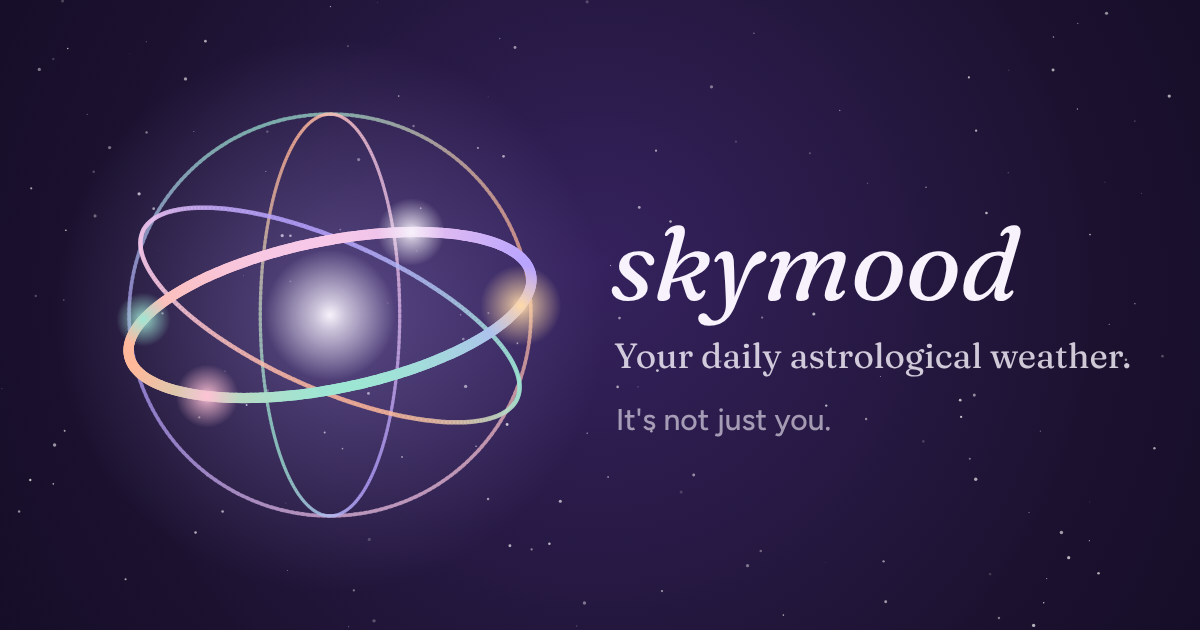
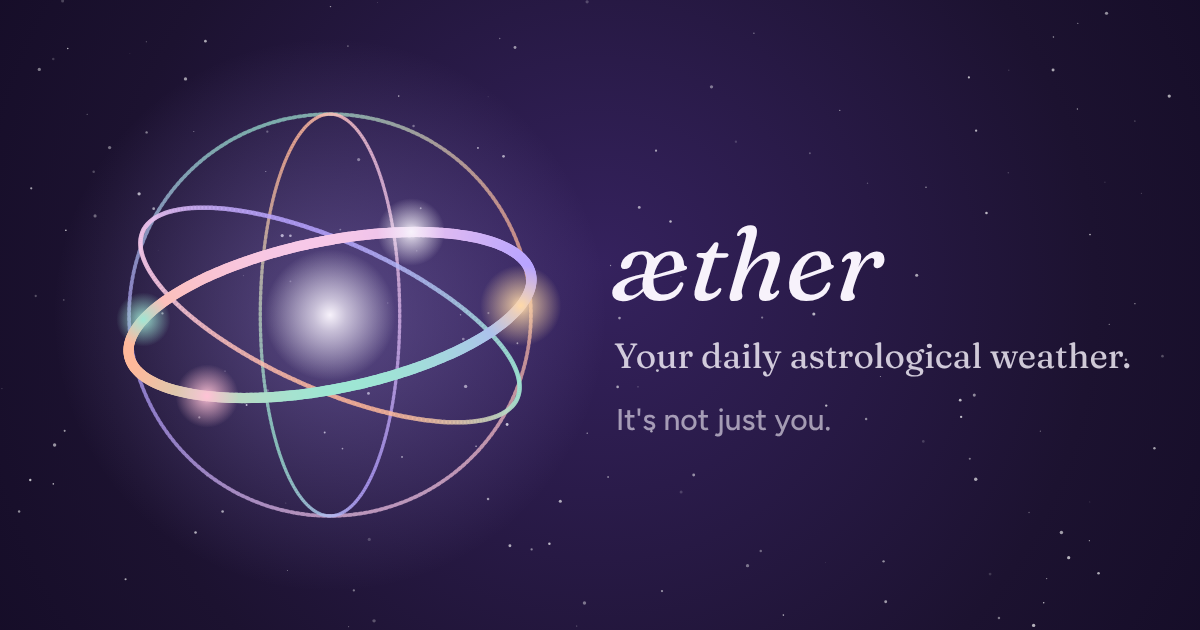
Rename the app to Æther
New name across the app, home-screen title, manifest, share text,
reading cards, link-preview image and README. Live address moves to
aether-astro.netlify.app.

Claude-Session: https://claude.ai/code/session_01QeCE94QXh4HWeaaSqUeRdM

Changed region(s): [[0.4933, 0.3619, 0.8633, 0.5127]]

diff --git a/site/js/app.js b/site/js/app.js
@@ -11,9 +11,9 @@ const TIP_URL = ""; // Ko-fi page goes here once it exists.
 
 // ---------- Storage (on this device only) ----------
 const store = {
-  get(k, d) { try { const v = localStorage.getItem("skymood:" + k); return v ? JSON.parse(v) : d; } catch { return d; } },
-  set(k, v) { try { localStorage.setItem("skymood:" + k, JSON.stringify(v)); } catch { /* storage unavailable */ } },
-  del(k) { try { localStorage.removeItem("skymood:" + k); } catch { } },
+  get(k, d) { try { const v = localStorage.getItem("aether:" + k); return v ? JSON.parse(v) : d; } catch { return d; } },
+  set(k, v) { try { localStorage.setItem("aether:" + k, JSON.stringify(v)); } catch { /* storage unavailable */ } },
+  del(k) { try { localStorage.removeItem("aether:" + k); } catch { } },
 };
 let profile = store.get("profile", null);
 let entries = store.get("entries", []);
@@ -241,7 +241,7 @@ function showReading(r, entry) {
     : r.bucket === "golden"
       ? `<button class="primary" id="bottleBtn">Bottle this</button>`
       : `<button class="primary" id="doneBtn">Done</button>`;
-  const tip = r.bucket === "golden" ? `<p class="tip-line">Skymood is free, with no ads and no paywall. <a href="#" class="tip-link">Chip in to keep it that way.</a></p>` : "";
+  const tip = r.bucket === "golden" ? `<p class="tip-line">Æther is free, with no ads and no paywall. <a href="#" class="tip-link">Chip in to keep it that way.</a></p>` : "";
   openSheet(`
     <article class="reading">
       <h2 id="sheetTitle">${esc(r.headline)}</h2>
@@ -343,26 +343,26 @@ async function renderCard(r) {
   g.fillStyle = "rgba(247,242,251,.75)"; g.font = '400 30px "Figtree", sans-serif';
   const moonBits = `Moon in ${r.sig.moonSign}, in ${r.sig.moonNak.name}, ${r.sig.moonNak.gloss}.`;
   wrap(g, moonBits, W - 180).slice(0, 2).forEach((l, i) => g.fillText(l, 90, 890 + lines.length * 80 + 20 + i * 42));
-  g.fillStyle = "#F7F2FB"; g.font = 'italic 400 44px "Fraunces", Georgia, serif'; g.fillText("skymood", 90, H - 90);
+  g.fillStyle = "#F7F2FB"; g.font = 'italic 400 44px "Fraunces", Georgia, serif'; g.fillText("æther", 90, H - 90);
   g.fillStyle = "rgba(247,242,251,.6)"; g.font = '400 26px "Figtree", sans-serif';
   g.textAlign = "right"; g.fillText(location.host, W - 90, H - 94);
   return new Promise(res => c.toBlob(res, "image/png"));
 }
 async function shareCard(r) {
   const blob = await renderCard(r);
-  const file = new File([blob], "skymood-sky.png", { type: "image/png" });
-  const text = `My sky today on Skymood. ${location.origin}`;
+  const file = new File([blob], "aether-sky.png", { type: "image/png" });
+  const text = `My sky today on Æther. ${location.origin}`;
   if (navigator.canShare && navigator.canShare({ files: [file] })) {
     try { await navigator.share({ files: [file], text }); } catch { /* cancelled */ }
     return;
   }
   const url = URL.createObjectURL(blob);
-  const a = document.createElement("a"); a.href = url; a.download = "skymood-sky.png"; a.click();
+  const a = document.createElement("a"); a.href = url; a.download = "aether-sky.png"; a.click();
   setTimeout(() => URL.revokeObjectURL(url), 4000);
   toast("Saved your sky card as an image.");
 }
 async function shareApp() {
-  const data = { title: "Skymood", text: "Your daily astrological weather. It's not just you.", url: location.origin + "/" };
+  const data = { title: "Æther", text: "Your daily astrological weather. It's not just you.", url: location.origin + "/" };
   if (navigator.share) { try { await navigator.share(data); } catch { } return; }
   try { await navigator.clipboard.writeText(data.url); toast("Link copied."); } catch { toast(data.url); }
 }
@@ -422,7 +422,7 @@ function openJournal() {
   };
   $("#exportBtn").onclick = () => {
     const blob = new Blob([JSON.stringify({ profile, entries }, null, 2)], { type: "application/json" });
-    const a = document.createElement("a"); a.href = URL.createObjectURL(blob); a.download = `skymood-journal-${dayKey()}.json`; a.click();
+    const a = document.createElement("a"); a.href = URL.createObjectURL(blob); a.download = `aether-journal-${dayKey()}.json`; a.click();
   };
   $("#importInput").onchange = async e => {
     try {
@@ -430,7 +430,7 @@ function openJournal() {
       const known = new Set(entries.map(x => x.id));
       entries = entries.concat((data.entries || []).filter(x => !known.has(x.id))).sort((a, b) => a.id - b.id);
       store.set("entries", entries); toast("Backup restored."); openJournal();
-    } catch { toast("That file isn't a Skymood backup."); }
+    } catch { toast("That file isn't a Æther backup."); }
   };
 }
 
@@ -454,11 +454,11 @@ function openInstall() {
         <div class="install-step"><span class="badge">${plus}</span><p>Scroll down and choose Add to Home Screen.</p></div>
       </div>
       <button class="ghost" id="notNow" style="width:100%">Not now</button>`
-    : deferredPrompt ? `<button class="primary" id="installNow">Add Skymood</button><button class="ghost" id="notNow" style="width:100%;margin-top:10px">Not now</button>`
+    : deferredPrompt ? `<button class="primary" id="installNow">Add Æther</button><button class="ghost" id="notNow" style="width:100%;margin-top:10px">Not now</button>`
       : `<p>Use your browser's menu and choose Install app or Add to Home Screen.</p><button class="ghost" id="notNow" style="width:100%">Got it</button>`;
   openSheet(`
     <img class="install-icon" src="/icons/icon-192.png" alt="">
-    <h2 id="sheetTitle">Keep Skymood on your home screen</h2>
+    <h2 id="sheetTitle">Keep Æther on your home screen</h2>
     <p>It opens full-screen like an app, and your sky journal stays safer on this phone.</p>
     ${body}
   `);
@@ -480,19 +480,19 @@ function openMenu() {
   const phases = ["auto", "dawn", "day", "dusk", "night"];
   const cur = phaseOverride || prefs.phase || "auto";
   openSheet(`
-    <h2 id="sheetTitle">Skymood</h2>
+    <h2 id="sheetTitle">Æther</h2>
     <div class="menu-list">
-      <button class="menu-item" id="mShare">${ic.share}<span>Share Skymood<small>Send the app to a friend</small></span></button>
+      <button class="menu-item" id="mShare">${ic.share}<span>Share Æther<small>Send the app to a friend</small></span></button>
       ${isStandalone() ? "" : `<button class="menu-item" id="mInstall">${ic.home}<span>Add to home screen<small>Open it full-screen, like an app</small></span></button>`}
       <button class="menu-item" id="mHere">${ic.pin}<span>${prefs.useHere ? "Colour the sky for where I am" : "Use where I am for the sky colours"}<small>${prefs.useHere ? "On. Tap to use your birth city again" : "Off. Colours follow sunrise and sunset in your birth city"}</small></span></button>
       <div class="menu-item" style="display:block;cursor:default">Preview time of day<small>See all four looks. Auto follows the real Sun.</small>
         <div class="chips" id="mPhase" style="margin-top:10px">${phases.map(p => `<button type="button" class="chip" aria-pressed="${p === cur}" data-v="${p}">${p}</button>`).join("")}</div>
       </div>
-      <button class="menu-item" id="mTip">${ic.heart}<span>Chip in<small>Skymood is free, with no ads and no paywall</small></span></button>
+      <button class="menu-item" id="mTip">${ic.heart}<span>Chip in<small>Æther is free, with no ads and no paywall</small></span></button>
       <button class="menu-item" id="mEdit">${ic.edit}<span>Edit birth details</span></button>
       <button class="menu-item" id="mErase">${ic.trash}<span>Erase everything on this phone</span></button>
     </div>
-    <p class="credits">Planet positions are calculated on your phone with Astronomy Engine (open source). Space weather comes from NOAA's Space Weather Prediction Center. Lines from the traditions are paraphrased in our own words. Skymood is for reflection, not prediction.</p>
+    <p class="credits">Planet positions are calculated on your phone with Astronomy Engine (open source). Space weather comes from NOAA's Space Weather Prediction Center. Lines from the traditions are paraphrased in our own words. Æther is for reflection, not prediction.</p>
   `);
   $("#mShare").onclick = shareApp;
   const inst = $("#mInstall"); if (inst) inst.onclick = openInstall;
@@ -541,4 +541,4 @@ if ("serviceWorker" in navigator && location.protocol === "https:") navigator.se
 // Testing hooks for previews: ?phase=dusk
 const qp = new URLSearchParams(location.search).get("phase");
 if (qp && ["dawn", "day", "dusk", "night"].includes(qp)) { phaseOverride = qp; applyPhase(); }
-window.__skymood = { openCheckin, openJournal, openMenu, openInstall, writeReading: () => writeReading };
+window.__aether = { openCheckin, openJournal, openMenu, openInstall, writeReading: () => writeReading };

diff --git a/site/index.html b/site/index.html
@@ -3,7 +3,7 @@
 <head>
   <meta charset="utf-8">
   <meta name="viewport" content="width=device-width, initial-scale=1, viewport-fit=cover">
-  <title>Skymood</title>
+  <title>Æther</title>
   <meta name="description" content="Your daily astrological weather. It's not just you.">
   <meta name="theme-color" content="#1C1230">
 
@@ -14,22 +14,22 @@
   <meta name="apple-mobile-web-app-capable" content="yes">
   <meta name="mobile-web-app-capable" content="yes">
   <meta name="apple-mobile-web-app-status-bar-style" content="black-translucent">
-  <meta name="apple-mobile-web-app-title" content="Skymood">
+  <meta name="apple-mobile-web-app-title" content="Æther">
 
   <!-- Link previews in Messages and social apps -->
   <meta property="og:type" content="website">
-  <meta property="og:site_name" content="Skymood">
-  <meta property="og:title" content="Skymood">
+  <meta property="og:site_name" content="Æther">
+  <meta property="og:title" content="Æther">
   <meta property="og:description" content="Your daily astrological weather. It's not just you.">
-  <meta property="og:url" content="https://skymood-sky.netlify.app/">
-  <meta property="og:image" content="https://skymood-sky.netlify.app/og-image.png">
+  <meta property="og:url" content="https://aether-astro.netlify.app/">
+  <meta property="og:image" content="https://aether-astro.netlify.app/og-image.png">
   <meta property="og:image:width" content="1200">
   <meta property="og:image:height" content="630">
   <meta property="og:image:alt" content="A glowing celestial sphere with iridescent rings on a deep plum night sky.">
   <meta name="twitter:card" content="summary_large_image">
-  <meta name="twitter:title" content="Skymood">
+  <meta name="twitter:title" content="Æther">
   <meta name="twitter:description" content="Your daily astrological weather. It's not just you.">
-  <meta name="twitter:image" content="https://skymood-sky.netlify.app/og-image.png">
+  <meta name="twitter:image" content="https://aether-astro.netlify.app/og-image.png">
 
   <link rel="preload" href="/fonts/fraunces-latin-full-normal.woff2" as="font" type="font/woff2" crossorigin>
   <link rel="preload" href="/fonts/figtree-latin-wght-normal.woff2" as="font" type="font/woff2" crossorigin>
@@ -45,7 +45,7 @@
       <button class="icon-btn" id="journalBtn" aria-label="Open your sky journal">
         <svg viewBox="0 0 24 24" aria-hidden="true"><circle cx="6" cy="7" r="1.6"/><circle cx="12" cy="5" r="1.6"/><circle cx="18" cy="9" r="1.6"/><circle cx="9" cy="14" r="1.6"/><circle cx="16" cy="17" r="1.6"/><path d="M6 7 12 5 18 9 16 17 9 14 6 7" fill="none" stroke-width="1"/></svg>
       </button>
-      <span class="wordmark">skymood</span>
+      <span class="wordmark">æther</span>
       <button class="icon-btn" id="menuBtn" aria-label="Open menu">
         <svg viewBox="0 0 24 24" aria-hidden="true"><circle cx="5" cy="12" r="1.8"/><circle cx="12" cy="12" r="1.8"/><circle cx="19" cy="12" r="1.8"/></svg>
       </button>
@@ -65,14 +65,14 @@
 
     <footer class="home-foot">
       <button class="primary" id="checkinBtn">How's today?</button>
-      <p class="tip-line">Skymood is free, with no ads and no paywall. <a href="#" class="tip-link">Chip in to keep it that way.</a></p>
+      <p class="tip-line">Æther is free, with no ads and no paywall. <a href="#" class="tip-link">Chip in to keep it that way.</a></p>
     </footer>
   </main>
 
   <!-- Onboarding -->
   <section class="onboard" id="onboard" hidden>
     <div class="ob-step" data-step="0">
-      <p class="ob-brand">skymood</p>
+      <p class="ob-brand">æther</p>
       <h2>Your daily astrological weather.</h2>
       <p class="ob-sub">Four thousand years of sky-watching, from Babylon to Varanasi, read against your own chart, the real weather above you, and everyone else under the same sky.</p>
       <button class="primary" data-next>Begin</button>

diff --git a/site/sw.js b/site/sw.js
@@ -1,5 +1,5 @@
-// Skymood service worker: works offline after the first visit, always prefers fresh files when online.
-const CACHE = "skymood-v1";
+// Æther service worker: works offline after the first visit, always prefers fresh files when online.
+const CACHE = "aether-v1";
 const SHELL = ["/", "/index.html", "/css/styles.css", "/js/app.js", "/js/astro.js", "/js/data.js", "/js/sky3d.js",
   "/vendor/astronomy.browser.min.js", "/vendor/three.module.min.js", "/manifest.webmanifest", "/icons/icon-192.png", "/fonts/fraunces-latin-full-normal.woff2", "/fonts/fraunces-latin-full-italic.woff2", "/fonts/figtree-latin-wght-normal.woff2"];
 self.addEventListener("install", e => { e.waitUntil(caches.open(CACHE).then(c => c.addAll(SHELL)).then(() => self.skipWaiting())); });

diff --git a/site/css/styles.css b/site/css/styles.css
@@ -1,4 +1,4 @@
-/* Skymood, Iris direction. Colour follows the real time of day where you are. */
+/* Æther, Iris direction. Colour follows the real time of day where you are. */
 @font-face { font-family: "Fraunces"; font-style: normal; font-weight: 100 900; font-display: swap; src: url("/fonts/fraunces-latin-full-normal.woff2") format("woff2"); }
 @font-face { font-family: "Fraunces"; font-style: italic; font-weight: 100 900; font-display: swap; src: url("/fonts/fraunces-latin-full-italic.woff2") format("woff2"); }
 @font-face { font-family: "Figtree"; font-style: normal; font-weight: 300 900; font-display: swap; src: url("/fonts/figtree-latin-wght-normal.woff2") format("woff2"); }

diff --git a/tools/art.html b/tools/art.html
@@ -65,7 +65,7 @@ function make(kind, size) {
   if (kind === "og") {
     stars(g, w, h, 160);
     sphere(g, 330, 315, 205);
-    g.fillStyle = "#F7F2FB"; g.font = 'italic 400 104px "Fraunces"'; g.fillText("skymood", 610, 300);
+    g.fillStyle = "#F7F2FB"; g.font = 'italic 400 104px "Fraunces"'; g.fillText("æther", 610, 300);
     g.fillStyle = "rgba(247,242,251,.82)"; g.font = '400 35px "Fraunces"'; g.fillText("Your daily astrological weather.", 614, 368);
     g.fillStyle = "rgba(247,242,251,.6)"; g.font = '500 30px "Figtree"'; g.fillText("It's not just you.", 616, 430);
   } else {

diff --git a/site/js/data.js b/site/js/data.js
@@ -1,4 +1,4 @@
-// Static reference data for Skymood. Everything here ships with the app, so no lookup service is needed.
+// Static reference data for Æther. Everything here ships with the app, so no lookup service is needed.
 
 // Prototype city list: [name, region, lat, lon, IANA time zone]. The full app swaps this for the GeoNames list.
 export const CITIES = [

diff --git a/site/js/astro.js b/site/js/astro.js
@@ -1,4 +1,4 @@
-// Skymood astrology engine. Runs entirely in the browser using Astronomy Engine (global `Astronomy`).
+// Æther astrology engine. Runs entirely in the browser using Astronomy Engine (global `Astronomy`).
 import {
   SIGNS, PLANETS, PLANET_INFO, ASPECTS, NAKSHATRAS, TITHIS, ECHOES, THEMES, THEME_LINES,
 } from "./data.js";

diff --git a/tools/make_art.py b/tools/make_art.py
@@ -1,4 +1,4 @@
-"""Render Skymood's icons and link-preview image from tools/art.html with headless Chromium."""
+"""Render Æther's icons and link-preview image from tools/art.html with headless Chromium."""
 import pathlib, sys
 from playwright.sync_api import sync_playwright
 

diff --git a/README.md b/README.md
@@ -1,8 +1,8 @@
-# Skymood
+# Æther
 
 Your daily astrological weather. It's not just you.
 
-Skymood is a free web app that reads your birth chart (Western and Vedic together) against today's sky, the real space weather above you, and how everyone else is feeling. You check in on any kind of day, heavy or golden, and get a reading that starts from your own words.
+Æther is a free web app that reads your birth chart (Western and Vedic together) against today's sky, the real space weather above you, and how everyone else is feeling. You check in on any kind of day, heavy or golden, and get a reading that starts from your own words.
 
 This is the first prototype.
 
@@ -50,4 +50,4 @@ Then open http://localhost:8000.
 - Space weather: [NOAA Space Weather Prediction Center](https://www.swpc.noaa.gov)
 - Fonts: Fraunces and Figtree, via Fontsource (SIL Open Font License)
 
-Skymood is for reflection, not prediction.
+Æther is for reflection, not prediction.
